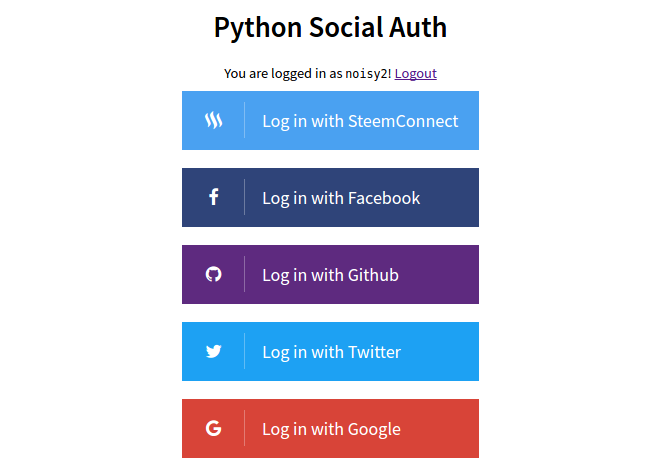
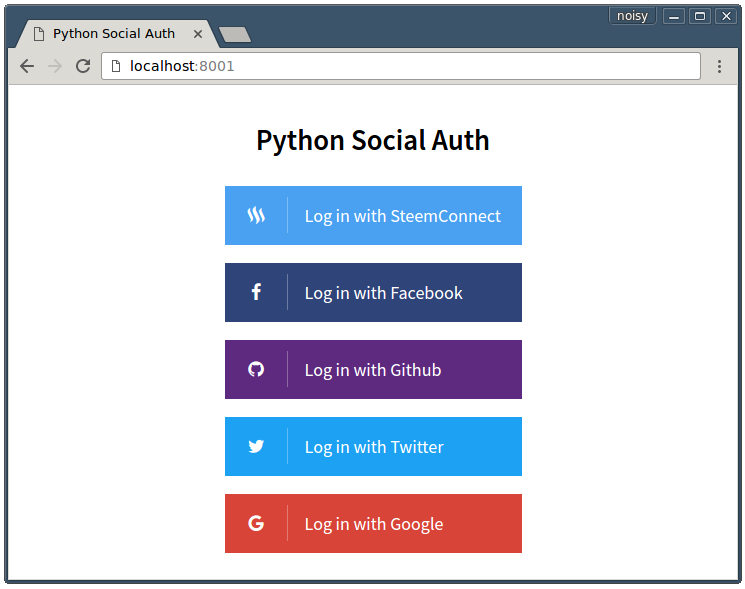
cleanning, different screenshot

diff --git a/example-common/templates/home.html b/example-common/templates/home.html
@@ -43,84 +43,5 @@
             {% endfor %}
         </div>
     </div>
-
-    <div class="buttons">
-      {% if user.is_authenticated %}
-        <div class="user-details">
-          You are logged in as <code>{{ user.username }}</code>!
-        </div>
-      {% endif %}
-
-      <div class="social">
-        {% for sublist in available_backends|social_backends|slice_by(10) %}
-          <div class="row">
-            {% for name, backend in sublist %}
-              {% set association = associated.get(name) %}
-              {% if association %}
-                <form id="{{ name }}-disconnect"
-                      class="disconnect-form col-md-2"
-                      action="{{ url("social:disconnect_individual", backend=association.provider, association_id=association.id) }}"
-                      method="post">
-                  <input type="hidden" name="csrfmiddlewaretoken" value="{{ csrf_token }}">
-                  <a class="btn btn-danger" name="{{ backend|backend_class }}" href="#">
-                    <i class="icon-{{ name|icon_name }}"></i>
-                    Disconnect {{ backend|backend_name }}
-                  </a>
-                </form>
-              {% else %}
-                {% if name == "google-plus" %}
-                  <div class="col-md-2 btn btn-default" id="{{ name }}-button" name="{{ backend|backend_class }}">
-                    <i class="icon-{{ name|icon_name }}"></i>
-                    {{ backend|backend_name }}
-                  </div>
-                {% else %}
-                  <a id="{{ name }}-button"
-                     class="col-md-2 btn btn-default"
-                     name="{{ backend|backend_class }}"
-                     href="{{ url("social:begin", backend=name) }}">
-                    <i class="icon-{{ name|icon_name }}"></i>
-                    {{ backend|backend_name }}
-                  </a>
-                {% endif %}
-              {% endif %}
-            {% endfor %}
-          </div>
-        {% endfor %}
-      </div>
-
-      <div class="legacy">
-        {% for name, backend in available_backends|legacy_backends %}
-          {% set association = associated.get(name) %}
-          {% if association %}
-            <form class="disconnect-form"
-                  action="{{ url("social:disconnect_individual", backend=association.provider, association_id=association.id) }}"
-                  method="post">
-              <input type="hidden" name="csrfmiddlewaretoken" value="{{ csrf_token }}">
-              <a class="btn btn-danger" name="{{ backend|backend_class }}" href="#">
-                <i class="icon-{{ name|icon_name }}"></i>
-                Disconnect {{ backend|backend_name }}
-              </a>
-            </form>
-          {% else %}
-            <a class="btn btn-default" name="{{ backend|backend_class }}" href="{{ url("social:begin", backend=name) }}">
-              <i class="icon-{{ name|icon_name }}"></i>
-              {{ backend|backend_name }}
-            </a>
-          {% endif %}
-        {% endfor %}
-
-        <a class="btn btn-info" name="ajax-login" href="#">
-          <i class="icon-refresh"></i>
-          Ajax
-        </a>
-      </div>
-
-      <div>
-        <a class="btn btn-primary" href="/logout/" id="logout">
-          <i class="icon-sign-out"></i>
-          Logout
-        </a>
-      </div>
-    </div>
   </body>
 </html>
